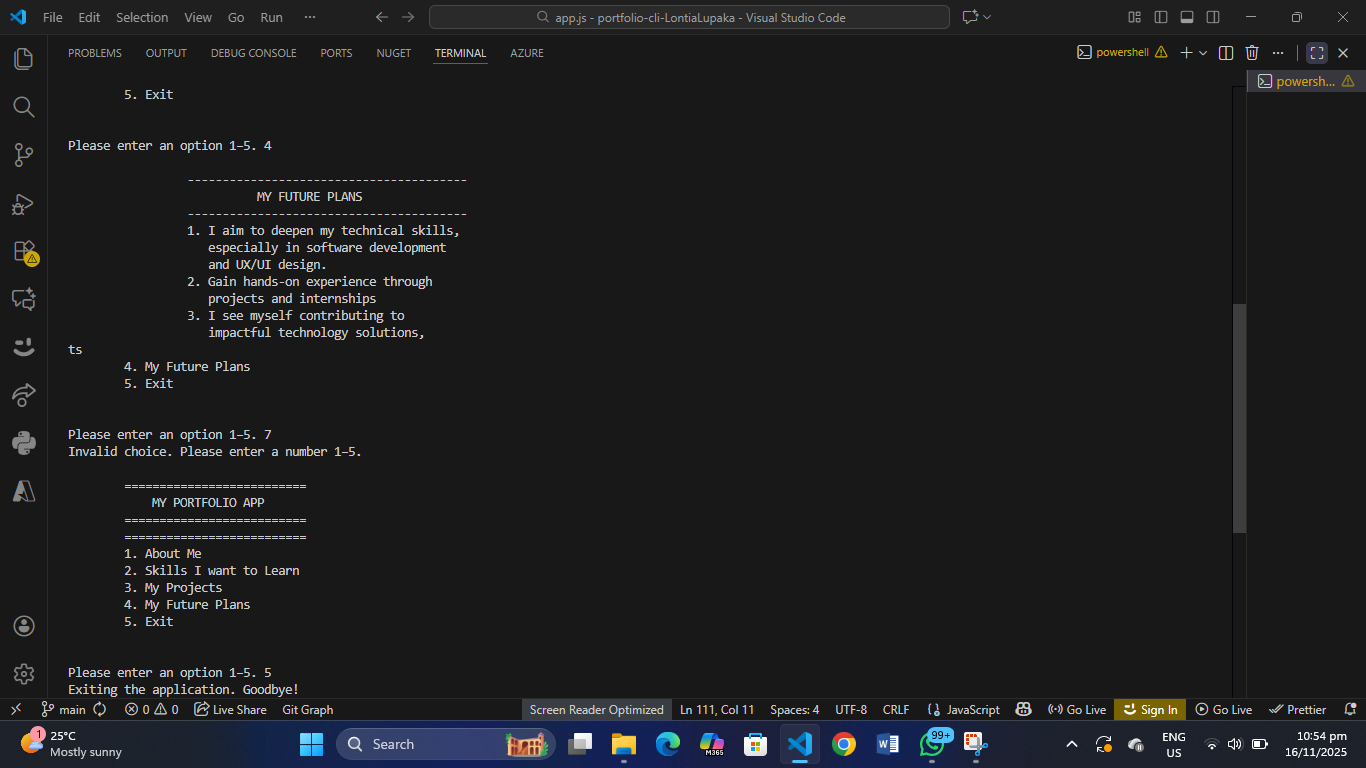
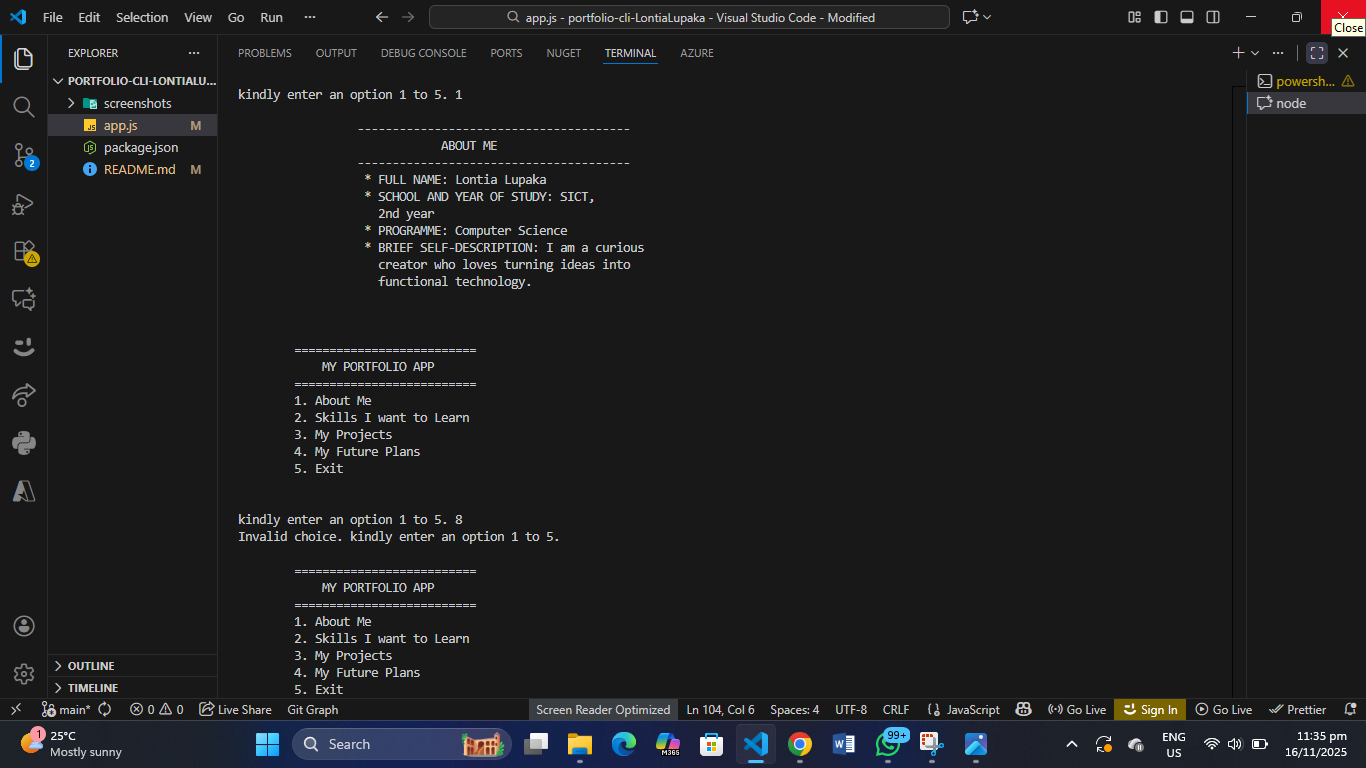
Second commit

diff --git a/app.js b/app.js
@@ -100,12 +100,12 @@ function handleChoice(choice) {
             rl.close();
             return;
         default:
-            console.log("Invalid choice. Please enter a number 1–5.");
+            console.log("Invalid choice. kindly enter an option 1 to 5.");
     }
     askMenu();
 }    
 function askMenu() {
     showMenu();
-    rl.question("Please enter an option 1–5. ", handleChoice);
+    rl.question("kindly enter an option 1 to 5. ", handleChoice);
 }
 askMenu();
